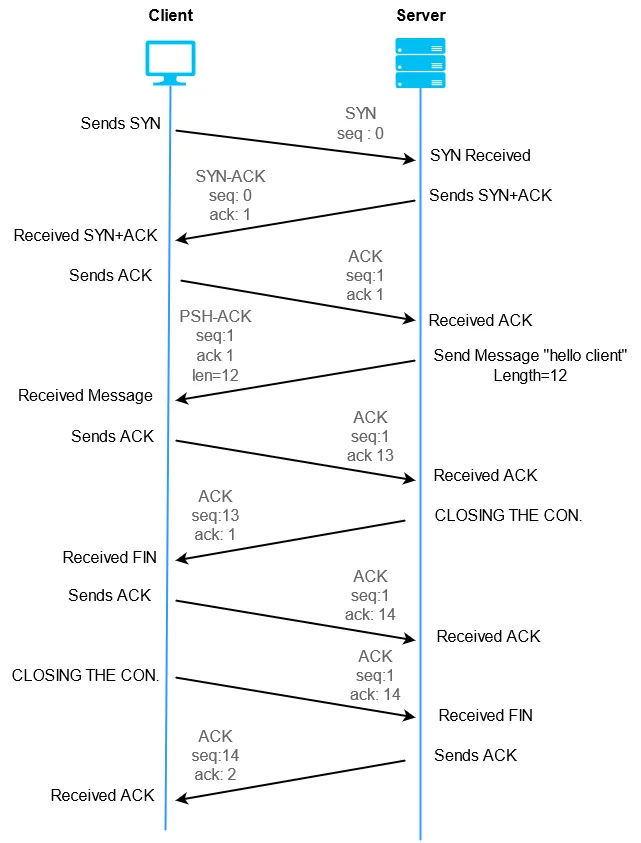
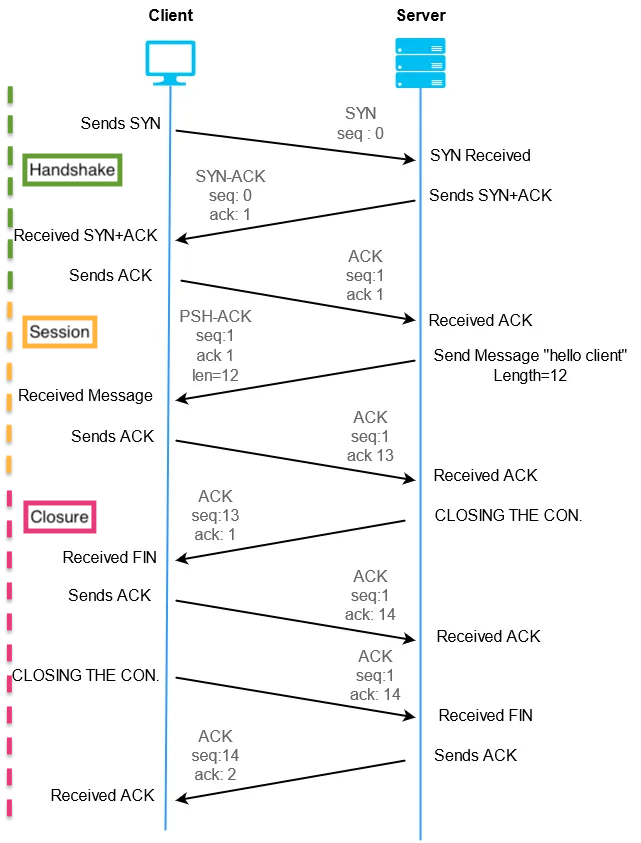
Content updates

Changed region(s): [[0.0, 0.0925, 0.2184, 0.987]]

diff --git a/docs/index.html b/docs/index.html
@@ -8,17 +8,16 @@
       @import url(https://fonts.googleapis.com/css?family=Droid+Serif:400,700,400italic);
       @import url(https://fonts.googleapis.com/css?family=Ubuntu+Mono:400,700,400italic);
 
+      img {
+        max-width: 100%;
+        max-height: 100%;
+      }
       body { font-family: 'Droid Serif'; }
       h1, h2, h3 {
         font-family: 'Yanone Kaffeesatz';
         font-weight: normal;
       }
       .remark-code, .remark-inline-code { font-family: 'Ubuntu Mono'; }
-      img {
-          max-width: 100%;
-          max-height: 100%;
-          width: auto;
-      }
       code {
         white-space : pre-wrap !important;
       }
@@ -111,7 +110,9 @@ https://kubernetes.io/docs/reference/access-authn-authz/extensible-admission-con
 
 ---
 
-## TCP 3 way handshake
+class: center, middle
+
+### TCP - 3 way handshake
 
 ![tcphandshake](tcp-handshake.png)
 
@@ -125,11 +126,7 @@ Come back to this slide if it's useful to reference in the following slides
 
 ---
 
-class: center, middle
-
-#### Full TCP session lifecycle
-
-![tcpsession](tcp-full-session.png)
+![tcp-session](tcp-full-session-cropped.png)
 
 ???
 
@@ -155,6 +152,8 @@ Ask the audience about their understanding of what these messages mean
 E0924 22:18:04.357762   4491 memcache.go:265] couldn't get current server API group list: Get https://127.0.0.1:6443/api?timeout=32s: dial tcp 127.0.0.1:6443: connect: connection refused
 ```
 
+<br />
+
 ```
 zapp.brannig.an rke2[2783338]: {"level":"warn","ts":"2024-09-27T11:57:31.335237-0400","logger":"etcd-client","caller":"v3@v3.5.9-k3s1/retry_interceptor.go:62","msg":"retrying of unary invoker failed","target":"etcd-endpoints://0xcd34db33ff/127.0.0.1:2379","attempt":0,"error":"rpc error: code = DeadlineExceeded desc = latest balancer error: last connection error: connection error: desc = \"transport: Error while dialing dial tcp 127.0.0.1:2379: connect: connection refused\""}
 ```
@@ -177,13 +176,19 @@ This can be temporary, for example if ingress-nginx is restarting, the port will
 curl: (28) Connection timed out after 2005 milliseconds
 ```
 
+<br />
+
 ```
 [ERROR] plugin/errors: 2 3994503566595593402.4565890997905689978. HINFO: read udp 10.42.2.188:45439->10.17.130.43:53: i/o timeout
 ```
 
+<br />
+
 ```
 E0912 19:08:00.809037       1 run.go:74] "command failed" err="unable to load configmap based request-header-client-ca-file: Get \"https://127.0.0.1:6443/api/v1/namespaces/kube-system/configmaps/extension-apiserver-authentication\": dial tcp 127.0.0.1:6443: i/o timeout"
 ```
+
+<br />
 
 ```
 2024-07-21T14:36:07.543416281Z E0721 14:36:07.543243       1 leaderelection.go:330] error retrieving resource lock kube-system/kube-scheduler: Get "https://127.0.0.1:6443/apis/coordination.k8s.io/v1/namespaces/kube-system/leases/kube-scheduler?timeout=5s": net/http: request canceled (Client.Timeout exceeded while awaiting headers)
@@ -204,9 +209,13 @@ Can be a few reasons:
 philip-j-fry.com rancher-system-agent[14615]: time="2024-09-27T20:07:43-05:00" level=fatal msg="[K8s] encountered an error while attempting to update the secret: Put \"https://leela.bender.com/api/v1/namespaces/fleet-default/secrets/custom-8b78ea0e6d6d-machine-plan\": read tcp 10.47.248.198:59390->10.47.130.35:443: read: connection reset by peer"
 ```
 
+<br />
+
 ```
 ERROR: https://prof-farmsworth.edu/ping is not accessible (Recv failure: Connection reset by peer)
 ```
+
+<br />
 
 ```
 2024/07/26 14:46:51 [error] 29#29: *283832 recv() failed (104: Connection reset by peer) while reading response header from upstream, client: 172.16.224.253, server: hermes-conrad.jm, request: "GET /apis/snapshot.storage.k8s.io/v1beta1?timeout=32s HTTP/1.1", upstream: "http://10.42.4.181:80/apis/snapshot.storage.k8s.io/v1beta1?timeout=32s", host: "hermes-conrad.jm"
@@ -234,7 +243,7 @@ Equivalent to handing up the phone on a caller, an abrupt closure of the TCP ses
 2024/04/05 03:18:05 [error] 2681#2681: *2305048 connect() failed (113: No route to host) while connecting to upstream, client: 10.2.176.17, server: anchovies-on-pizza.it, request: "GET /hello HTTP/2.0", upstream: "http://10.42.96.250:1234/hello", host: "anchovies-on-pizza.it"
 ```
 
-Can sometimes be caused by firewalld REJECT rules, which use `reject-with icmp-host-prohibited`
+- Can sometimes be caused by firewalld REJECT rules, which use `reject-with icmp-host-prohibited`
 ```bash
 # iptables -nvL
   [...]
@@ -257,9 +266,13 @@ Uncommon but can be , some causes:
 Oct 17 20:36:18 old-bessie-1 rke2[12378]: time="2022-10-17T20:36:18Z" level=warning msg="Failed to get image from endpoint: Get \"https://planet.express.com/v2/\": dial tcp: lookup planet.express.com: i/o timeout"
 ```
 
+<br />
+
 ```
 Post "http://api.prod.domain.local/admin": dial tcp: lookup api.prod.domain.local: no such host
 ```
+
+<br />
 
 ```
 Caused by: java.net.UnknownHostException:  foo.bar.com
@@ -283,6 +296,8 @@ Lots of potential causes:
 class: center, middle
 
 # Time for the lab!
+
+Please join slack channel: #cfl-rancher-lab-oct-2024
 
     </textarea>
     <script src="https://remarkjs.com/downloads/remark-latest.min.js">
